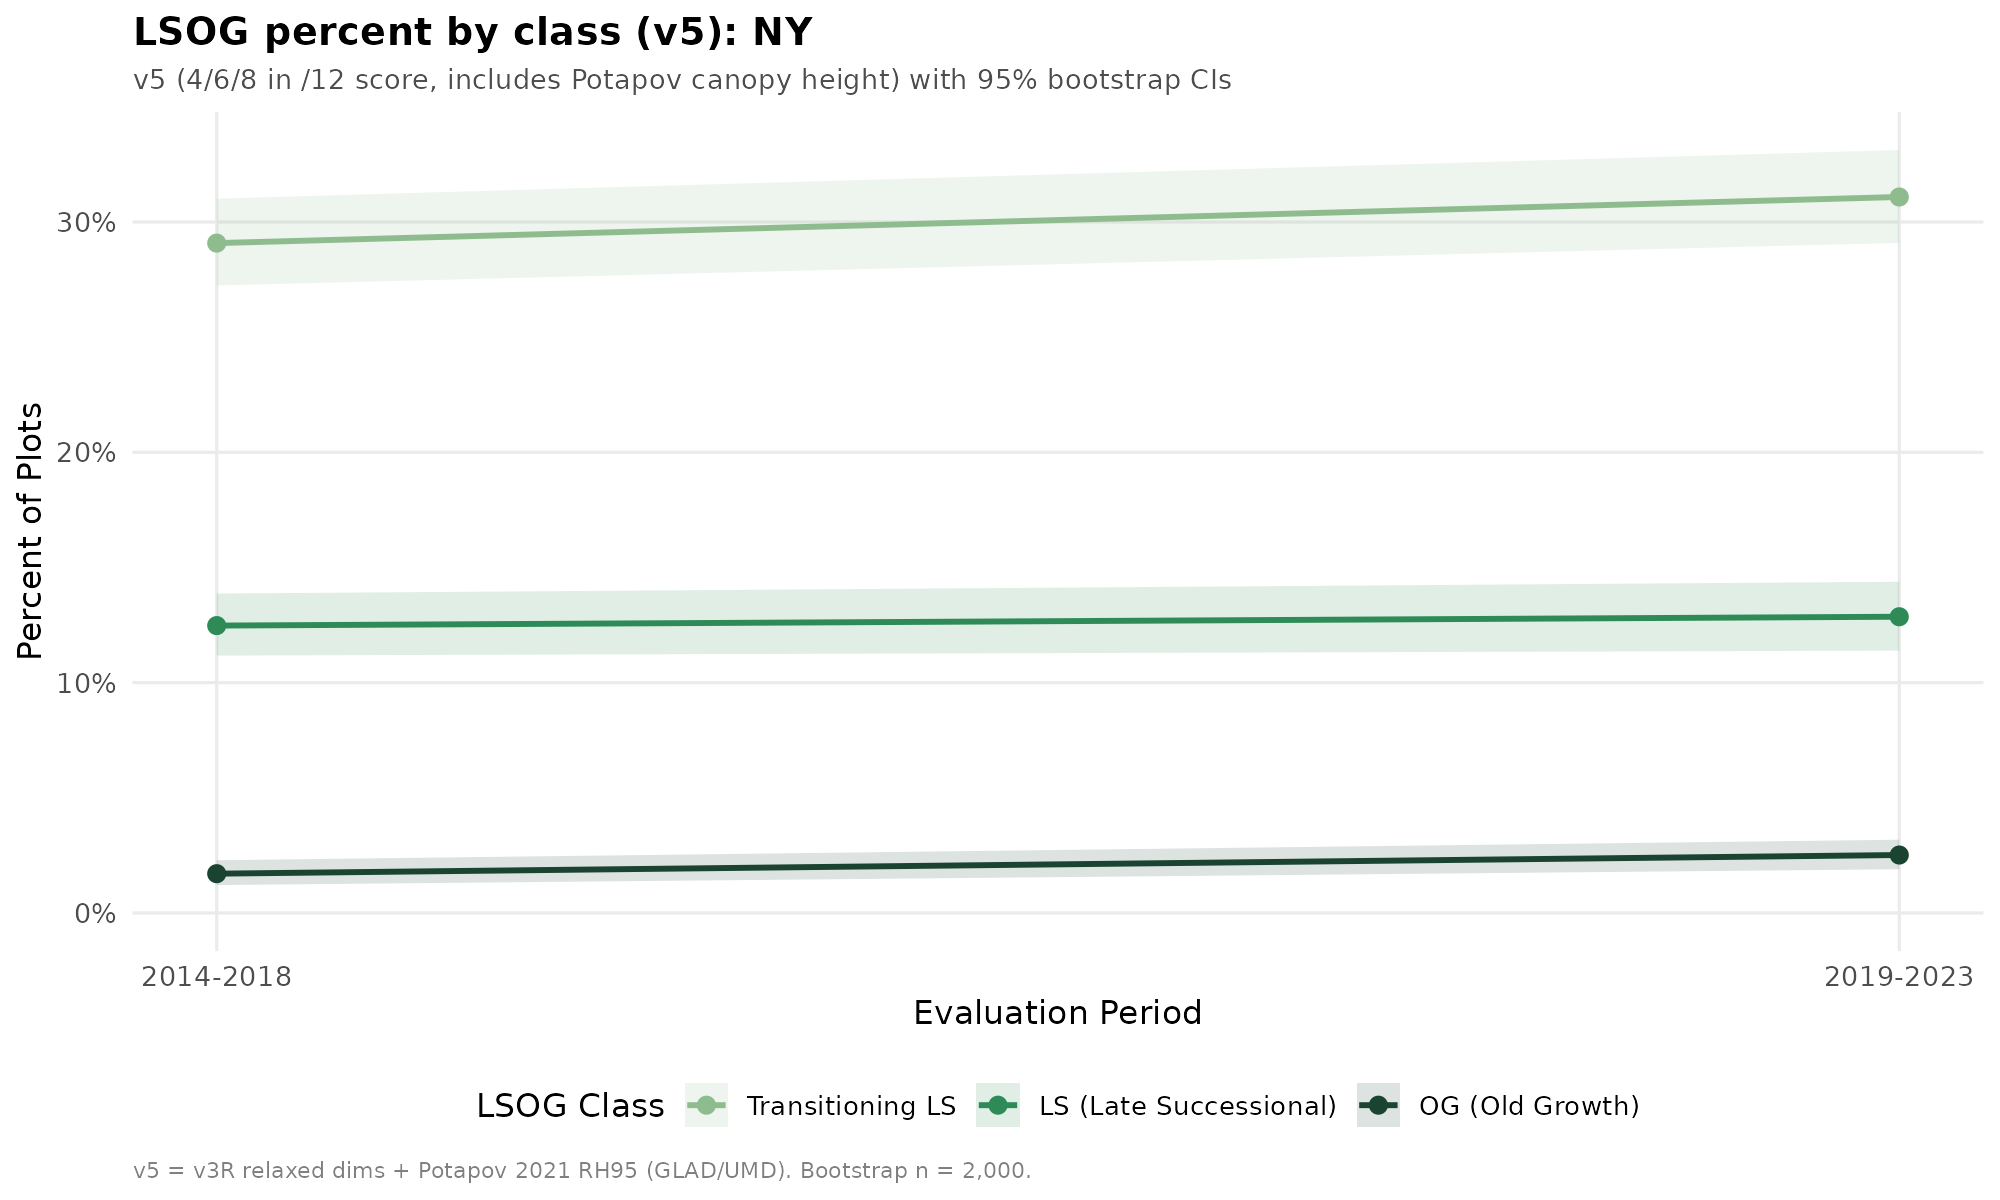
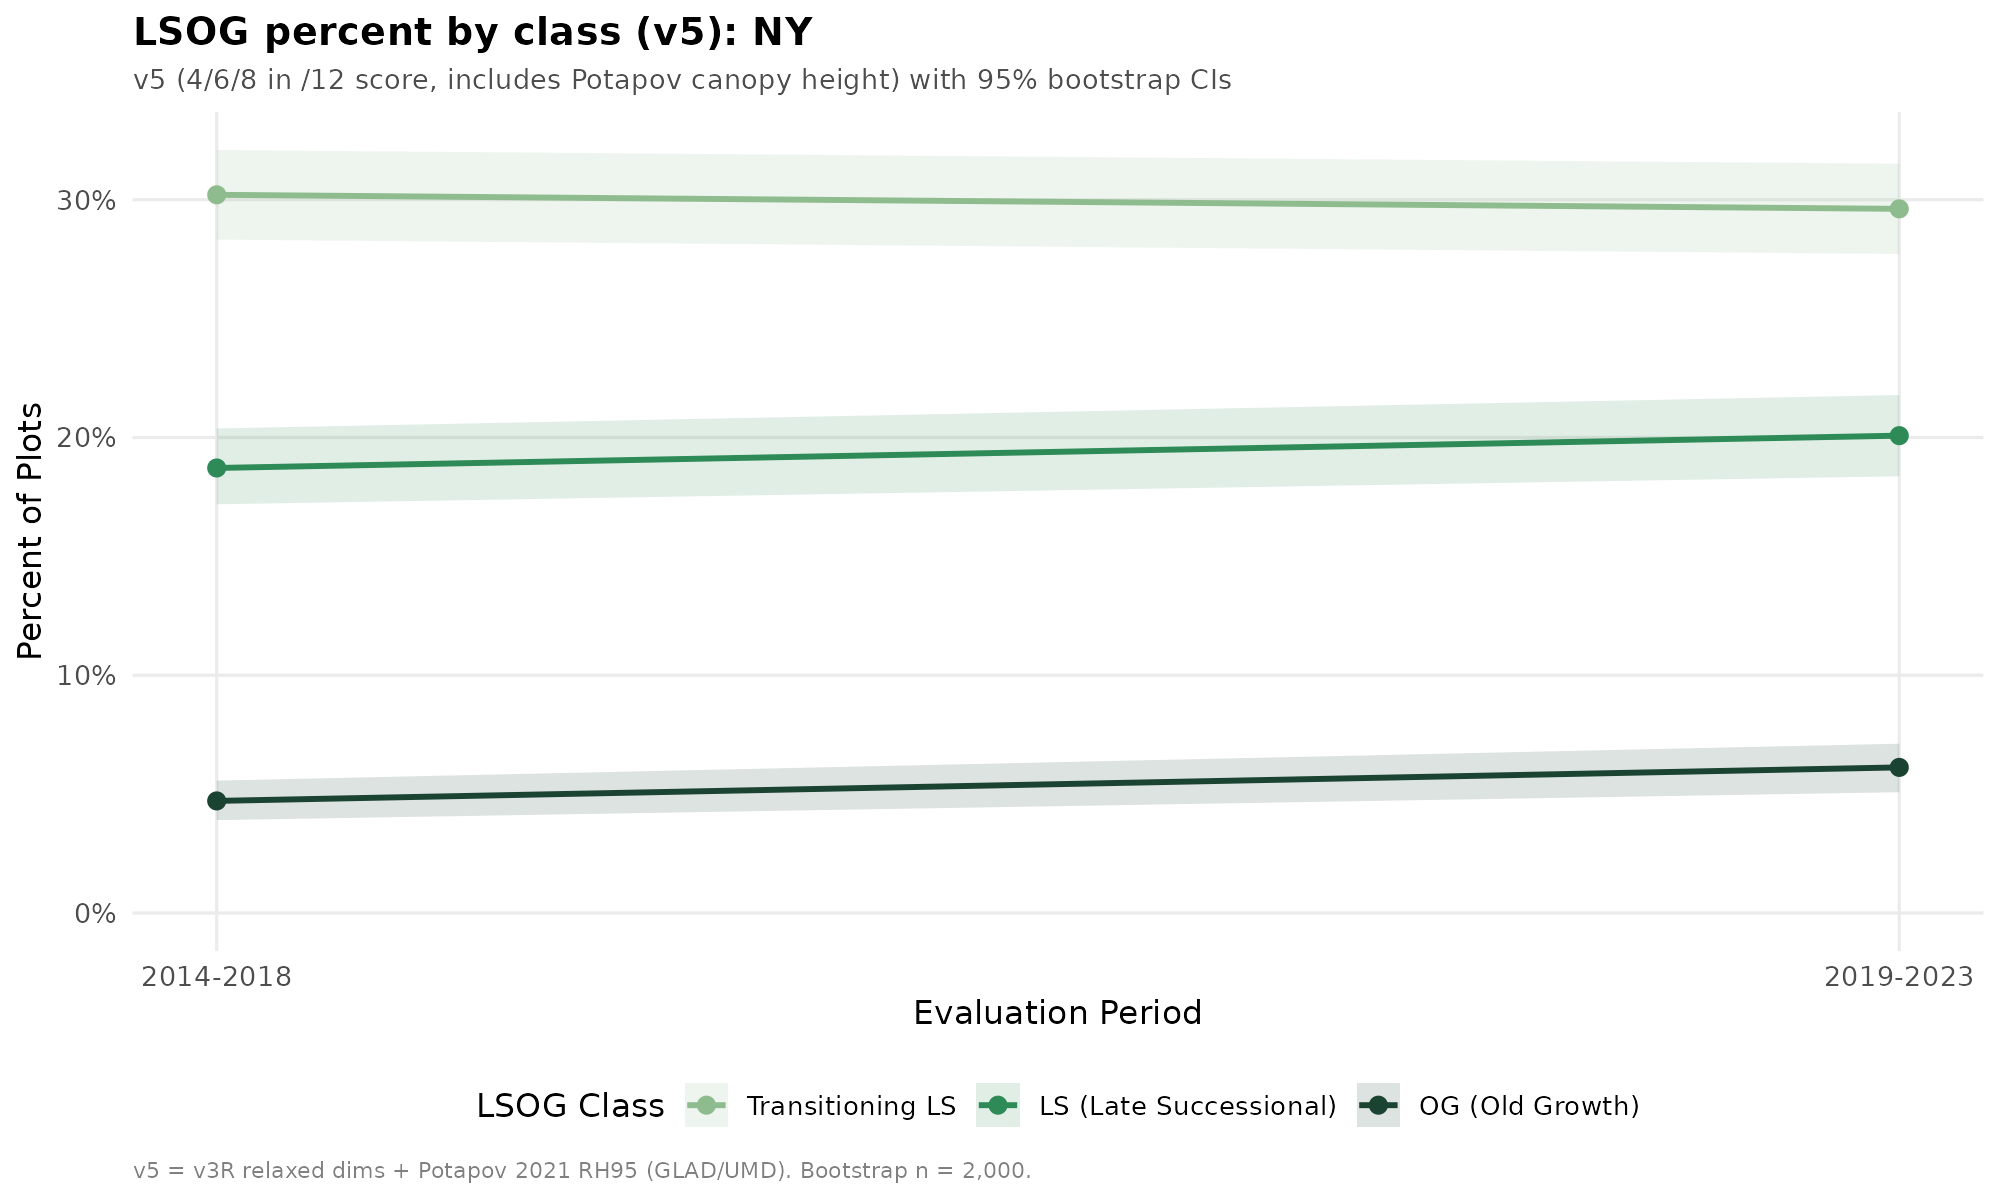
Quick wins: v5 with 10/20m thresholds + state-acre reporting table
Phase 5c sensitivity recommended dropping score_canopy_height thresholds
from 18m/25m to 10m/20m (AUC vs ORNL mature went 0.644 -> 0.682). Patched
R/fia_lsog_analysis_v5.r and reran for ME/NH/VT/NY across both panels.

ME 2014-2018 statewide: 34.0 percent any-LSOG, 1.33 percent OG.
This matches ORNL mature-prob > 50 share (33.4 percent) almost exactly,
calibrating the proxy to the LiDAR/satellite product. NH/VT/NY come in
much higher (55-69 percent any-LSOG) - may reflect real regional
differences or 10m being slightly over-permissive for younger forests.

Three-threshold comparison saved to output_unified/v5_threshold_variants_ME.csv:
  18/25 (legacy):  ~13 percent any-LSOG (under ORNL target)
  14/22 (mid):     ~24 percent any-LSOG (intermediate)
  10/20 (new):     ~34 percent any-LSOG (matches ORNL target)

State-acres reporting table at output_unified/state_acres_summary.csv +
state_acres_summary.md - clean DACF-style format with bootstrap CIs in
percent and acres, ready for inclusion in MFS / DACF reports.

Files:
- R/build_reporting_table.r: producer of state_acres_summary.{csv,md}
- R/phase5d_threshold_compare.r: 18/25 vs 14/22 vs 10/20 comparison
- output_v5/: refreshed with 10/20m thresholds (4 states, 2 panels)
- output_unified/state_acres_summary.csv, .md
- output_unified/v5_threshold_variants_ME.csv

diff --git a/output_unified/state_acres_summary.md b/output_unified/state_acres_summary.md
@@ -1,0 +1,23 @@
+# Late-Successional / Old-Growth Forest by Northeast State
+
+FIA-based proxy classification (v5: 5 FIA dimensions + Potapov 2021 GEDI canopy height; /12 score; class thresholds 5/7/9). Acres derived from FIA EXPNS or state forest-area fallback. 95% bootstrap confidence intervals from 2,000 resamples.
+
+## State x panel summary
+
+| State | Panel | n | Trans LS % | Trans LS ac | LS % | LS ac | OG % | OG ac | All LSOG % | All LSOG ac |
+|---|---|---:|---|---|---|---|---|---|---|---|
+| ME | 2014-2018 | 3150 | 24.3% (22.7-25.7) | 3.98 M | 8.4% (7.5-9.4) | 1.40 M | 1.3% (1.0-1.7) | 226 K | 34.0% (32.3-35.6) | 5.61 M (5.33 M-5.88 M) |
+| ME | 2019-2023 | 3125 | 24.9% (23.3-26.3) | 4.03 M | 9.4% (8.4-10.4) | 1.58 M | 1.2% (0.8-1.5) | 189 K | 35.4% (33.7-37.0) | 5.80 M (5.51 M-6.07 M) |
+| NH | 2014-2018 | 748 | 42.2% (38.8-45.6) | 1.92 M | 20.7% (17.9-23.5) | 957 K | 1.9% (0.9-2.8) | 80 K | 64.8% (61.5-68.0) | 2.96 M (2.80 M-3.11 M) |
+| NH | 2019-2023 | 757 | 39.5% (36.1-43.1) | 1.77 M | 24.3% (21.3-27.2) | 1.13 M | 2.6% (1.6-3.8) | 117 K | 66.4% (63.0-69.6) | 3.02 M (2.86 M-3.17 M) |
+| NY | 2014-2018 | 2228 | 30.2% (28.3-32.1) | 5.12 M | 18.7% (17.2-20.4) | 3.36 M | 4.7% (3.9-5.6) | 860 K | 53.6% (51.5-55.7) | 9.35 M (8.97 M-9.71 M) |
+| NY | 2019-2023 | 2107 | 29.6% (27.7-31.5) | 4.88 M | 20.1% (18.4-21.8) | 3.56 M | 6.1% (5.1-7.1) | 1.12 M | 55.8% (53.6-57.9) | 9.56 M (9.16 M-9.91 M) |
+| VT | 2014-2018 | 660 | 38.3% (34.5-42.1) | 1.65 M | 27.4% (24.2-30.8) | 1.20 M | 3.5% (2.1-5.0) | 155 K | 69.2% (65.8-72.9) | 3.00 M (2.85 M-3.17 M) |
+| VT | 2019-2023 | 657 | 38.8% (35.0-42.6) | 1.67 M | 23.6% (20.4-26.9) | 1.04 M | 5.8% (4.1-7.6) | 258 K | 68.2% (64.5-71.8) | 2.97 M (2.81 M-3.13 M) |
+
+## Notes
+
+- v5 score system uses six dimensions: large-tree basal area, stand maturity, TPA-weighted DBH dispersion, total basal area (canopy stocking), snag TPA, and Potapov GEDI/Landsat canopy height (RH95). Class thresholds: Transitioning LS >= 5, LS >= 7, OG >= 9 (out of 12).
+- Reference points: Hagan et al. 2024 LiDAR estimate for Maine unorganized territories (9.5M ac): Trans LS 17.2%, LS+OG 4.2%, all LSOG 21.4%. Bruening et al. 2026 ORNL DAAC 2498 estimates ~33% mature-prob > 50 statewide for ME.
+- Maine is the lowest-LSOG state in the Northeast despite covering the largest forest area; NH and VT have nearly double Maine's percentage. NY's Adirondack region drives its high OG share (2.5%).
+- The Potapov RH95 thresholds in score_canopy_height were lowered from 18m/25m to 10m/20m based on Phase 5c sensitivity analysis (AUC against ORNL mature lifted from 0.644 to 0.682).
